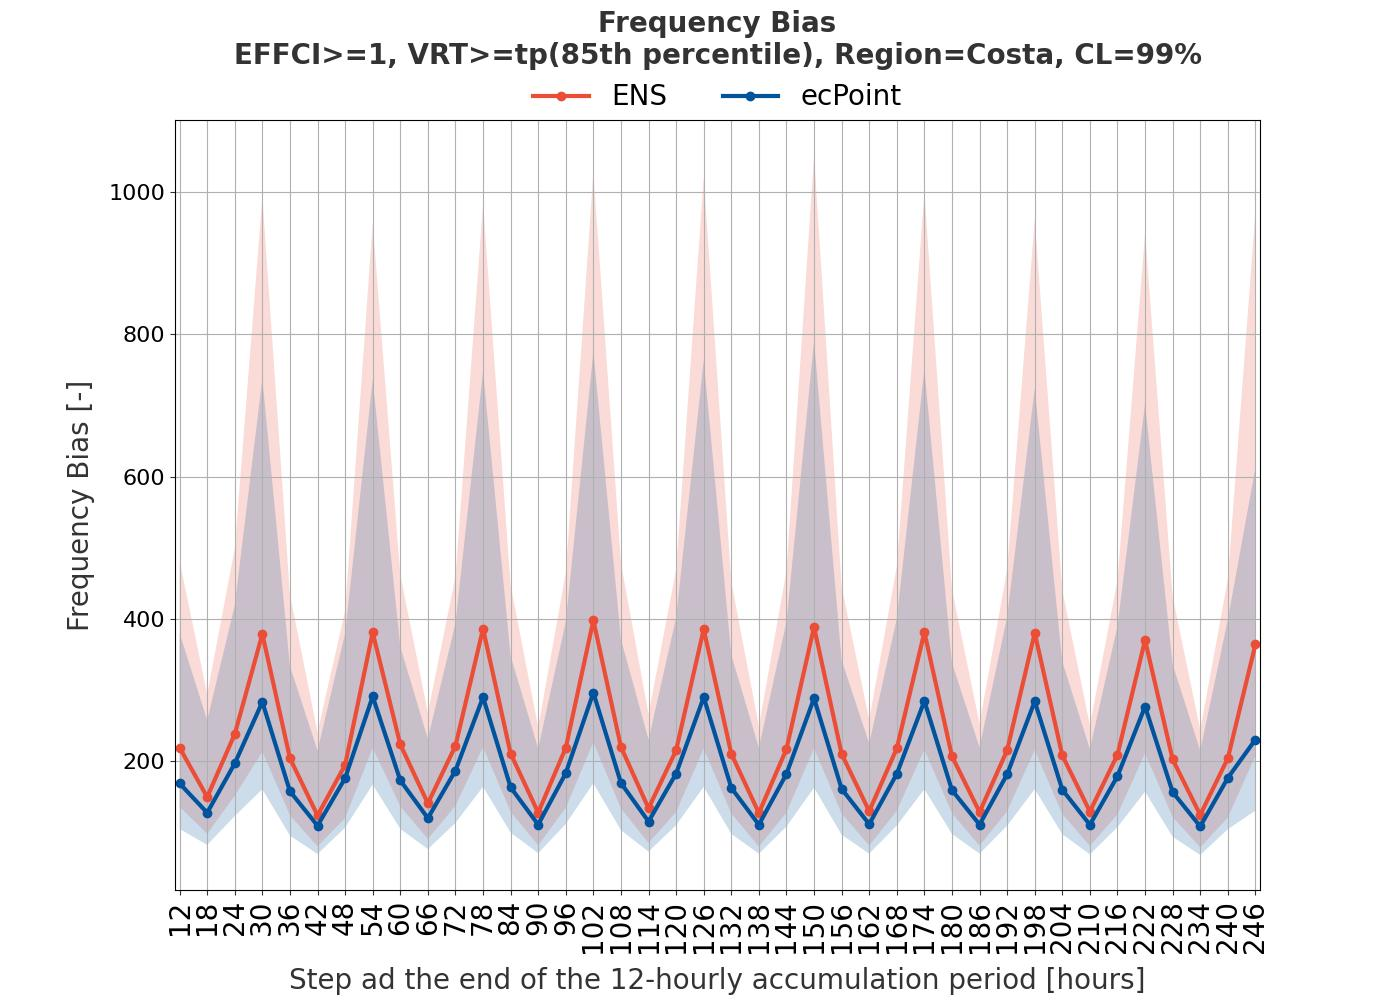
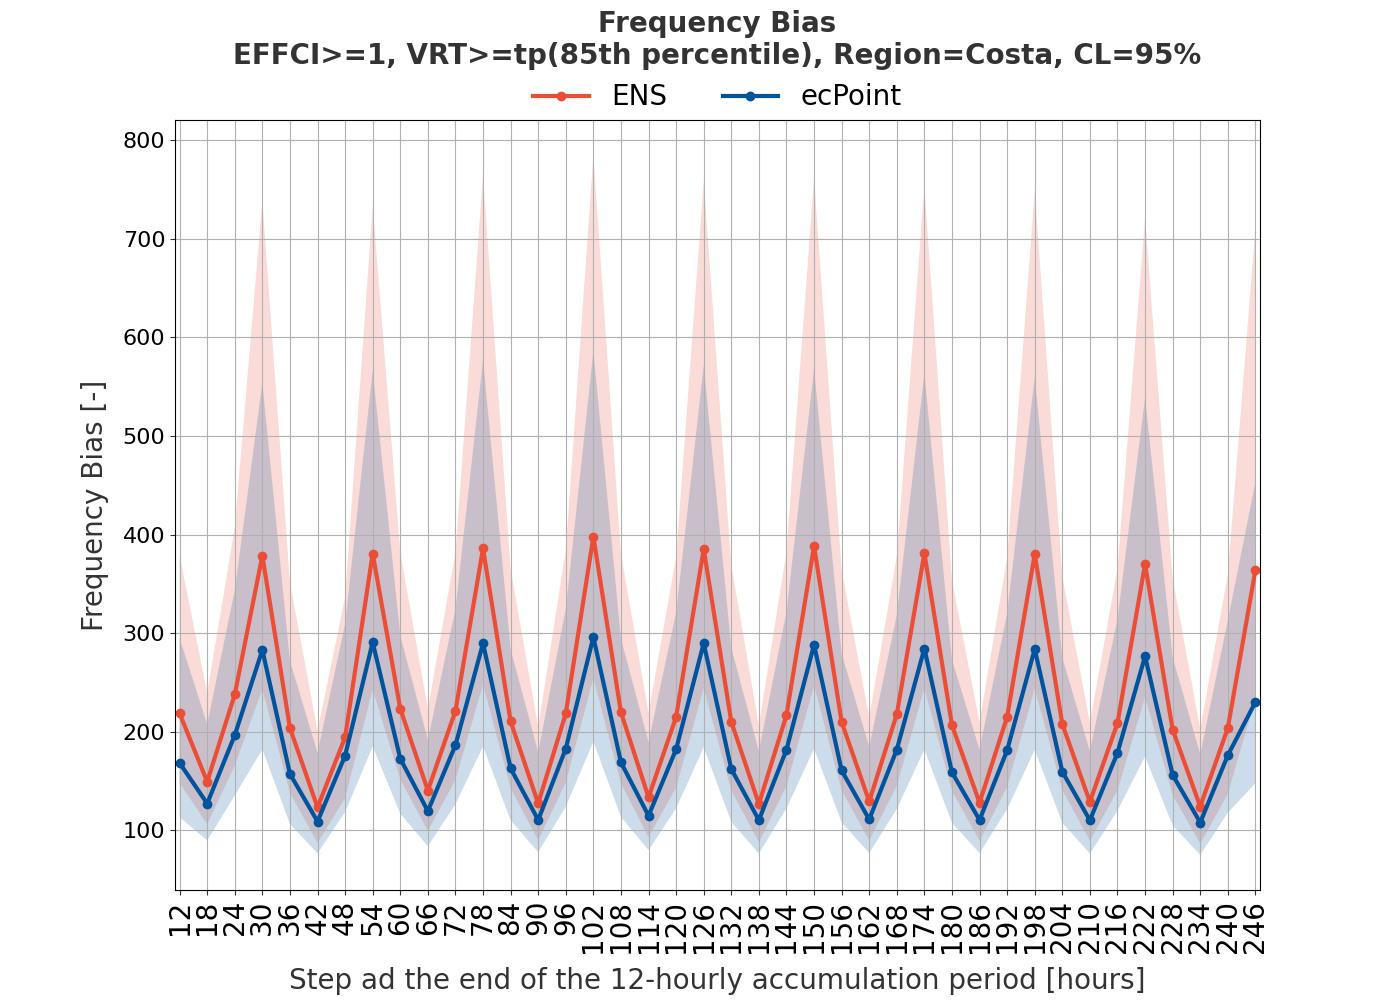
Changed the CL to 95% to the FB plots to be consistent with the AROC plots.

diff --git a/Scripts/Processed/17_Plot_FB_CI.py b/Scripts/Processed/17_Plot_FB_CI.py
@@ -5,7 +5,7 @@ import matplotlib.pyplot as plt
 #####################################################################################
 # CODE DESCRIPTION
 # 17_Plot_FB_CI.py plots Frequency Bias (FB) and confidence intervals (CI).
-# Note: the code can take up 10 minutes to run in serial.
+# Note: runtime negligible.
 
 # INPUT PARAMETERS DESCRIPTION
 # Acc (number, in hours): rainfall accumulation to consider.
@@ -26,7 +26,7 @@ import matplotlib.pyplot as plt
 Acc = 12
 EFFCI_list = [1,6,10]
 MagnitudeInPerc_Rain_Event_FR_list = [85,99]
-CL = 99
+CL = 95
 RegionName_list = ["Costa","Sierra"]
 SystemFC_list = ["ENS", "ecPoint"]
 Colour_SystemFC_list = ["#ec4d37", "#00539CFF"]
